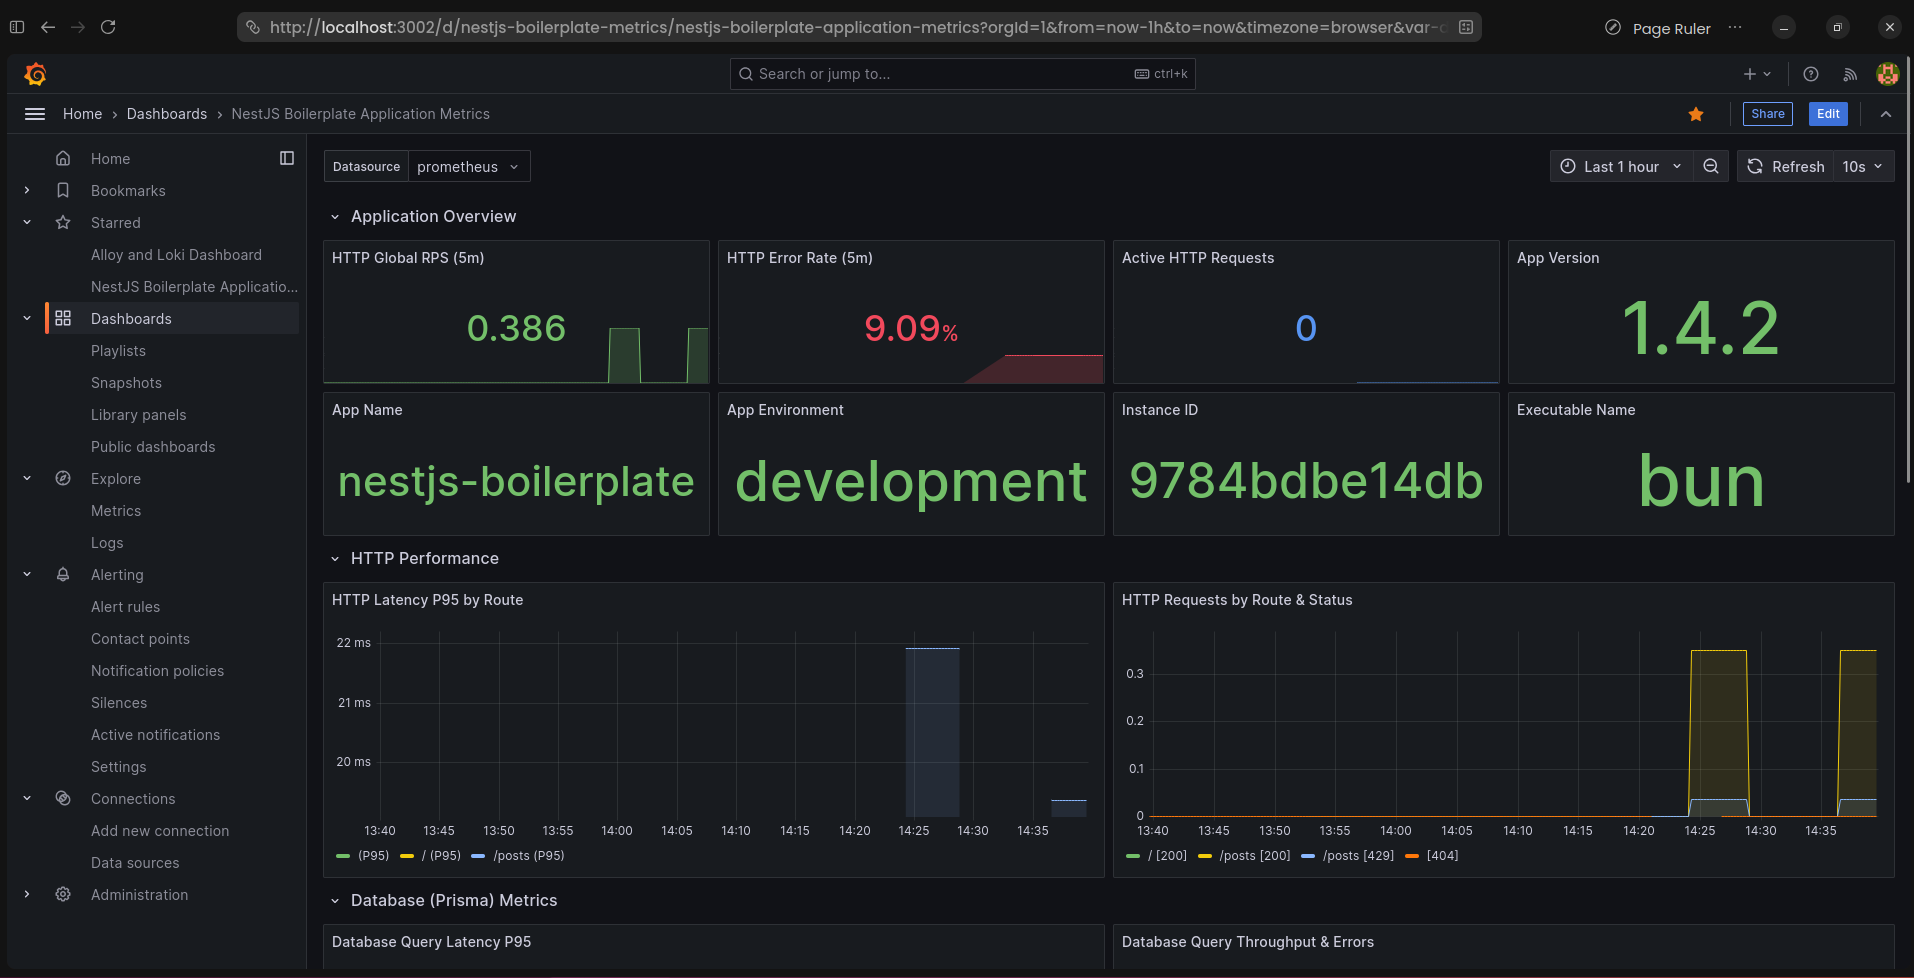
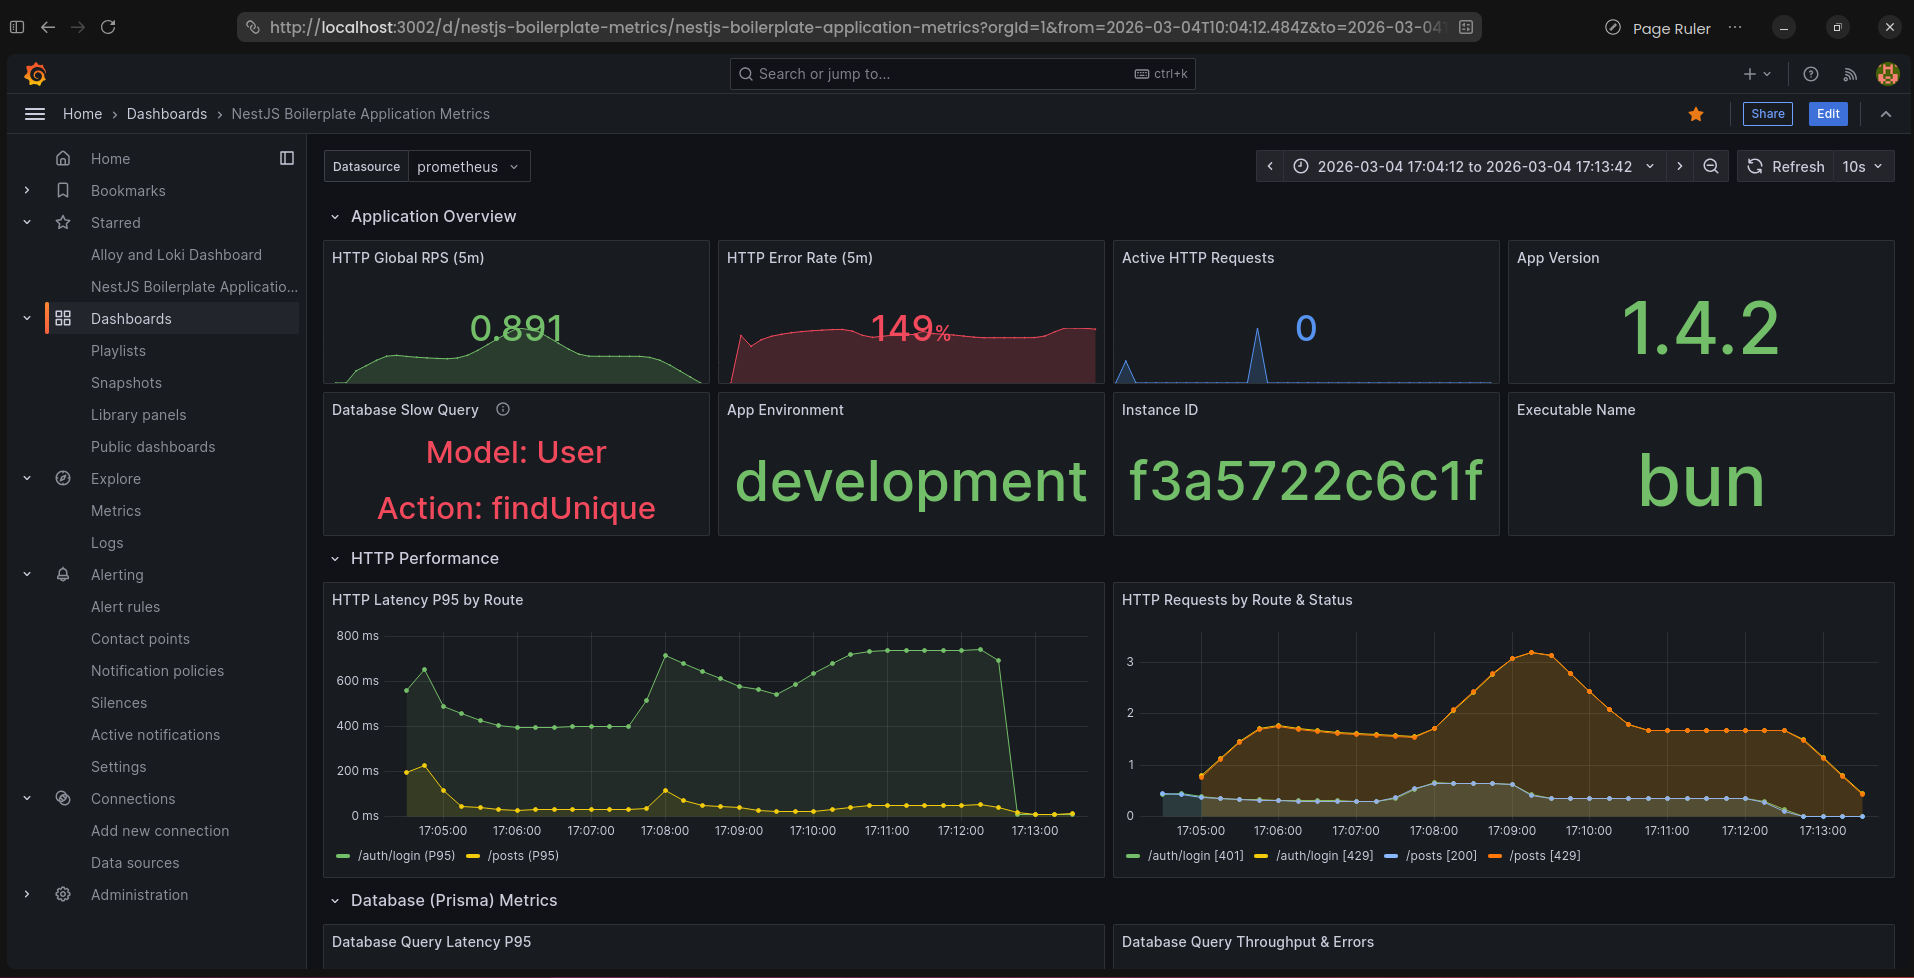
chore: update assets

diff --git a/observability/grafana/README.md b/observability/grafana/README.md
@@ -17,3 +17,7 @@
 ![Tracing 1](assets/Tracing-1.png)
 
 ![Tracing 2](assets/Tracing-2.png)
+
+## Stres Test: k6
+
+![Stres Test](assets/Stres-Test.png)
